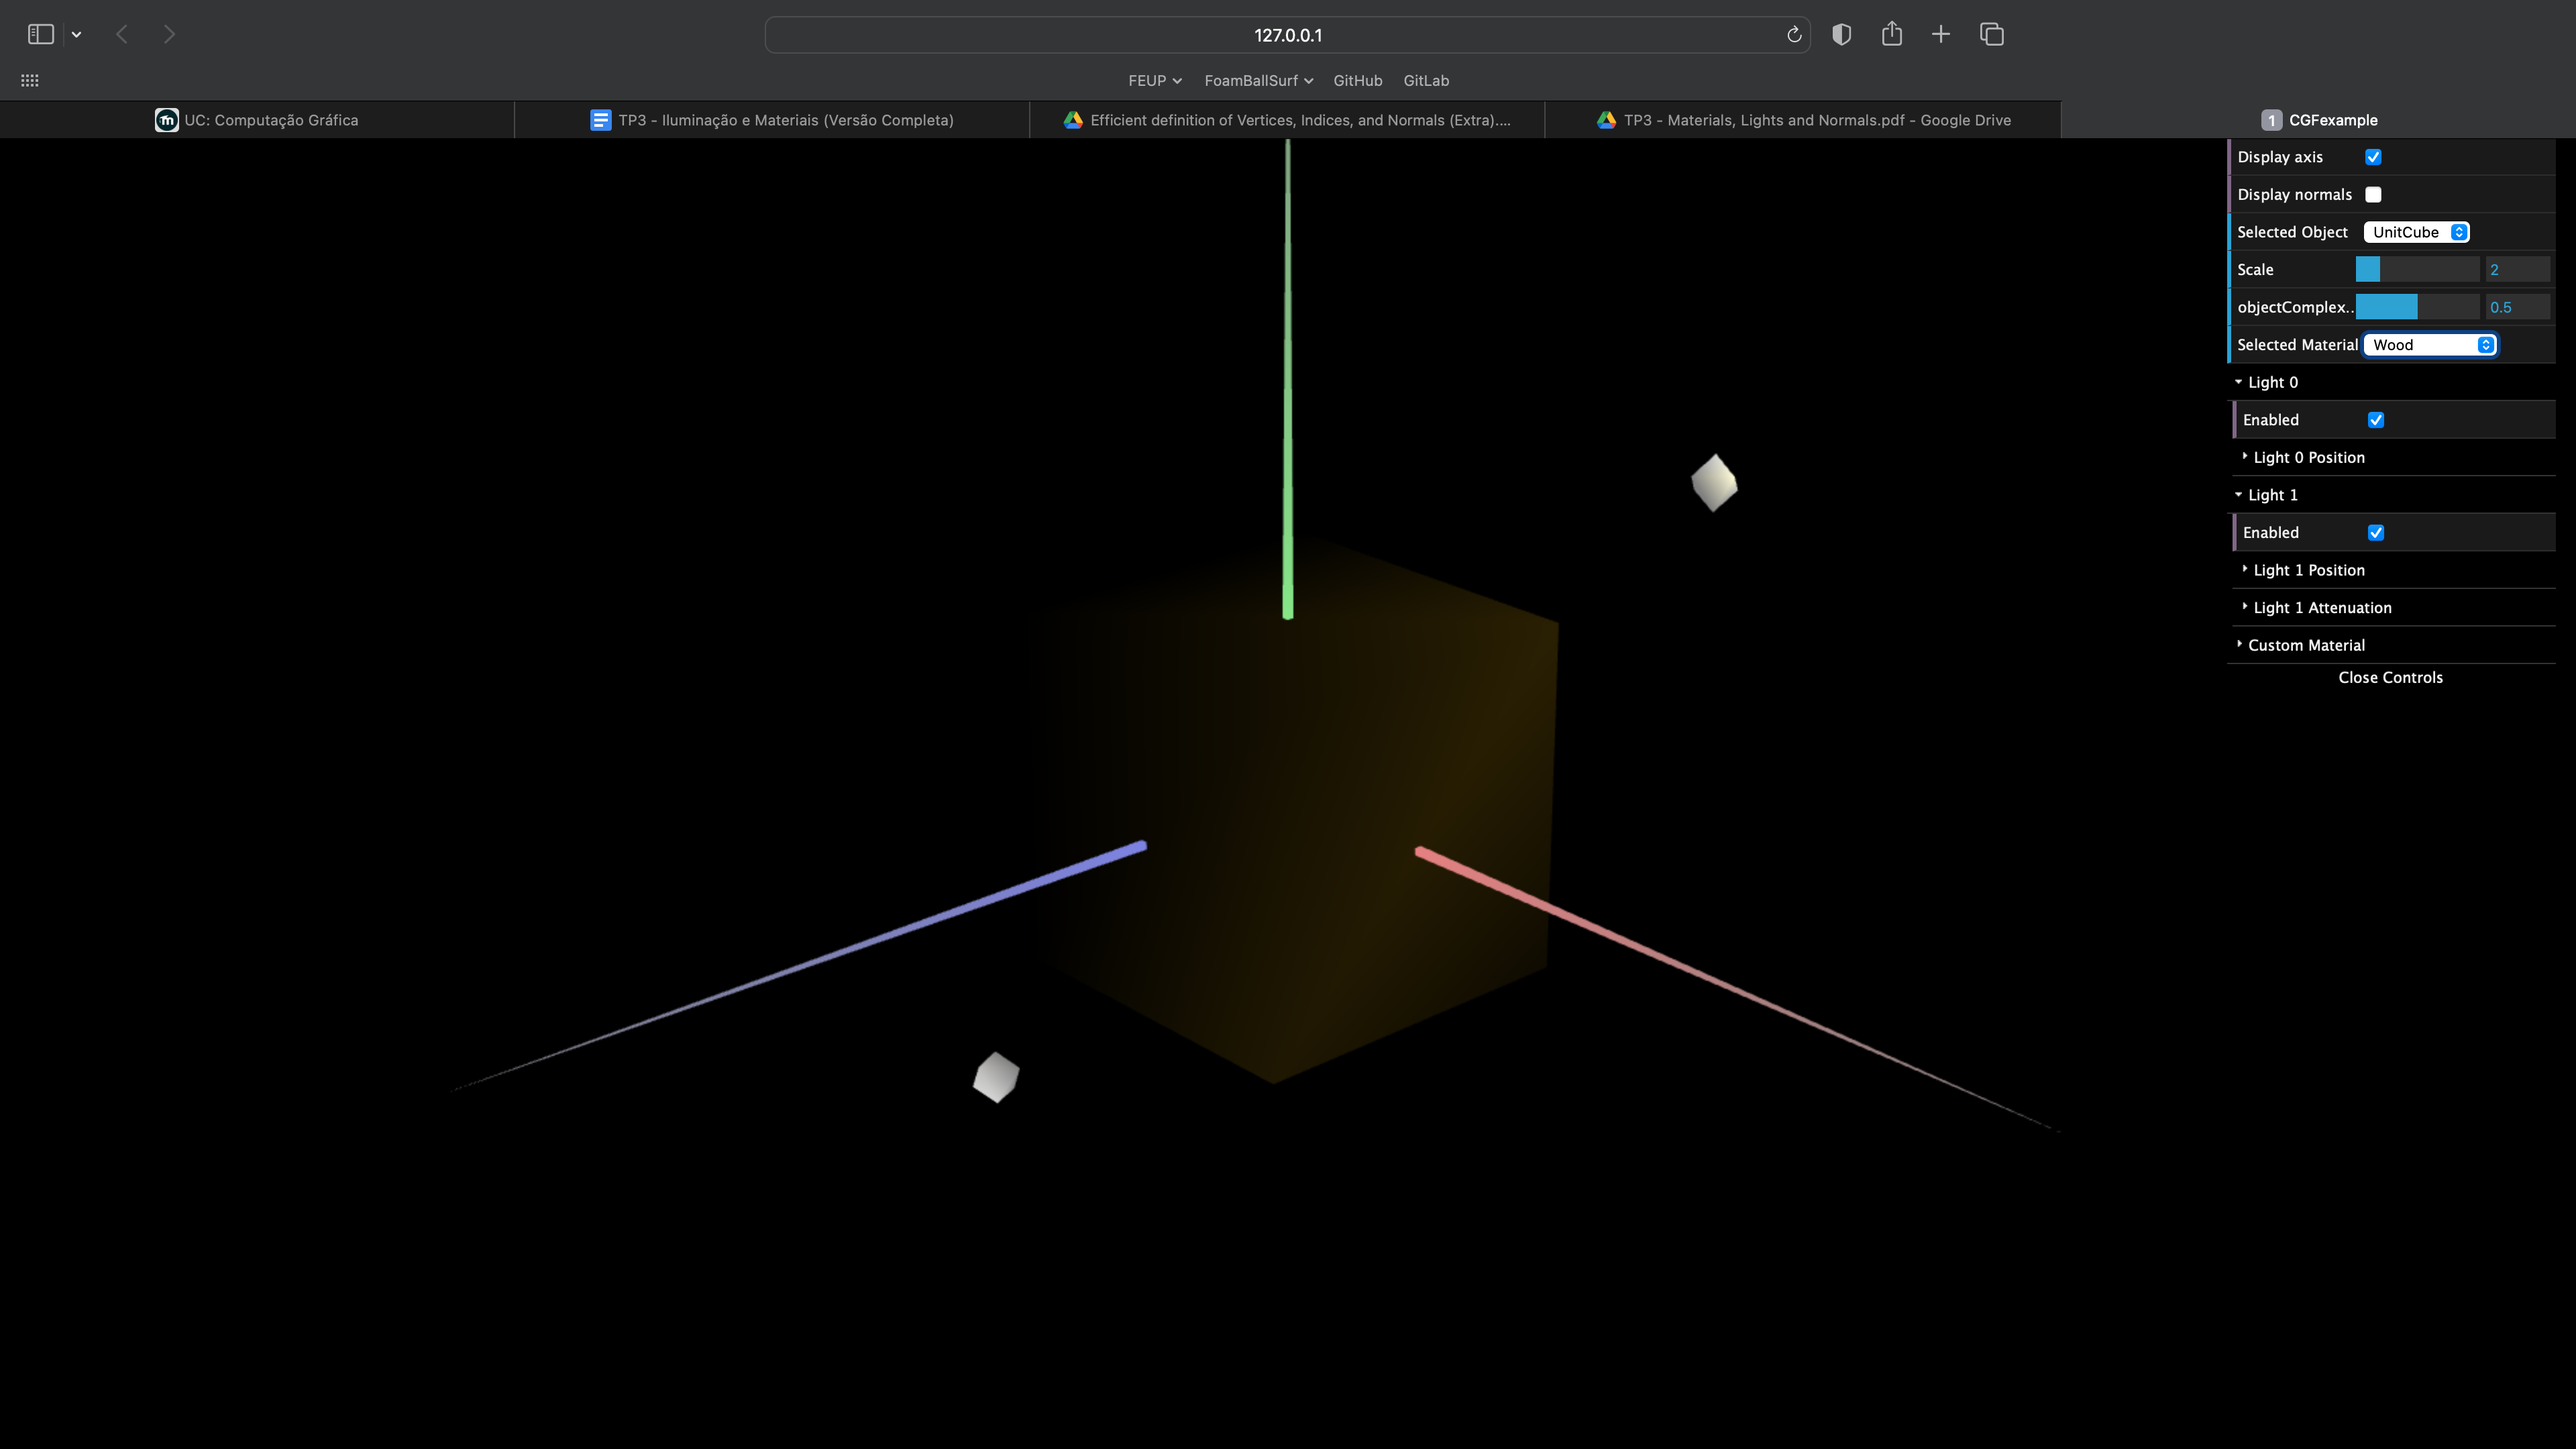
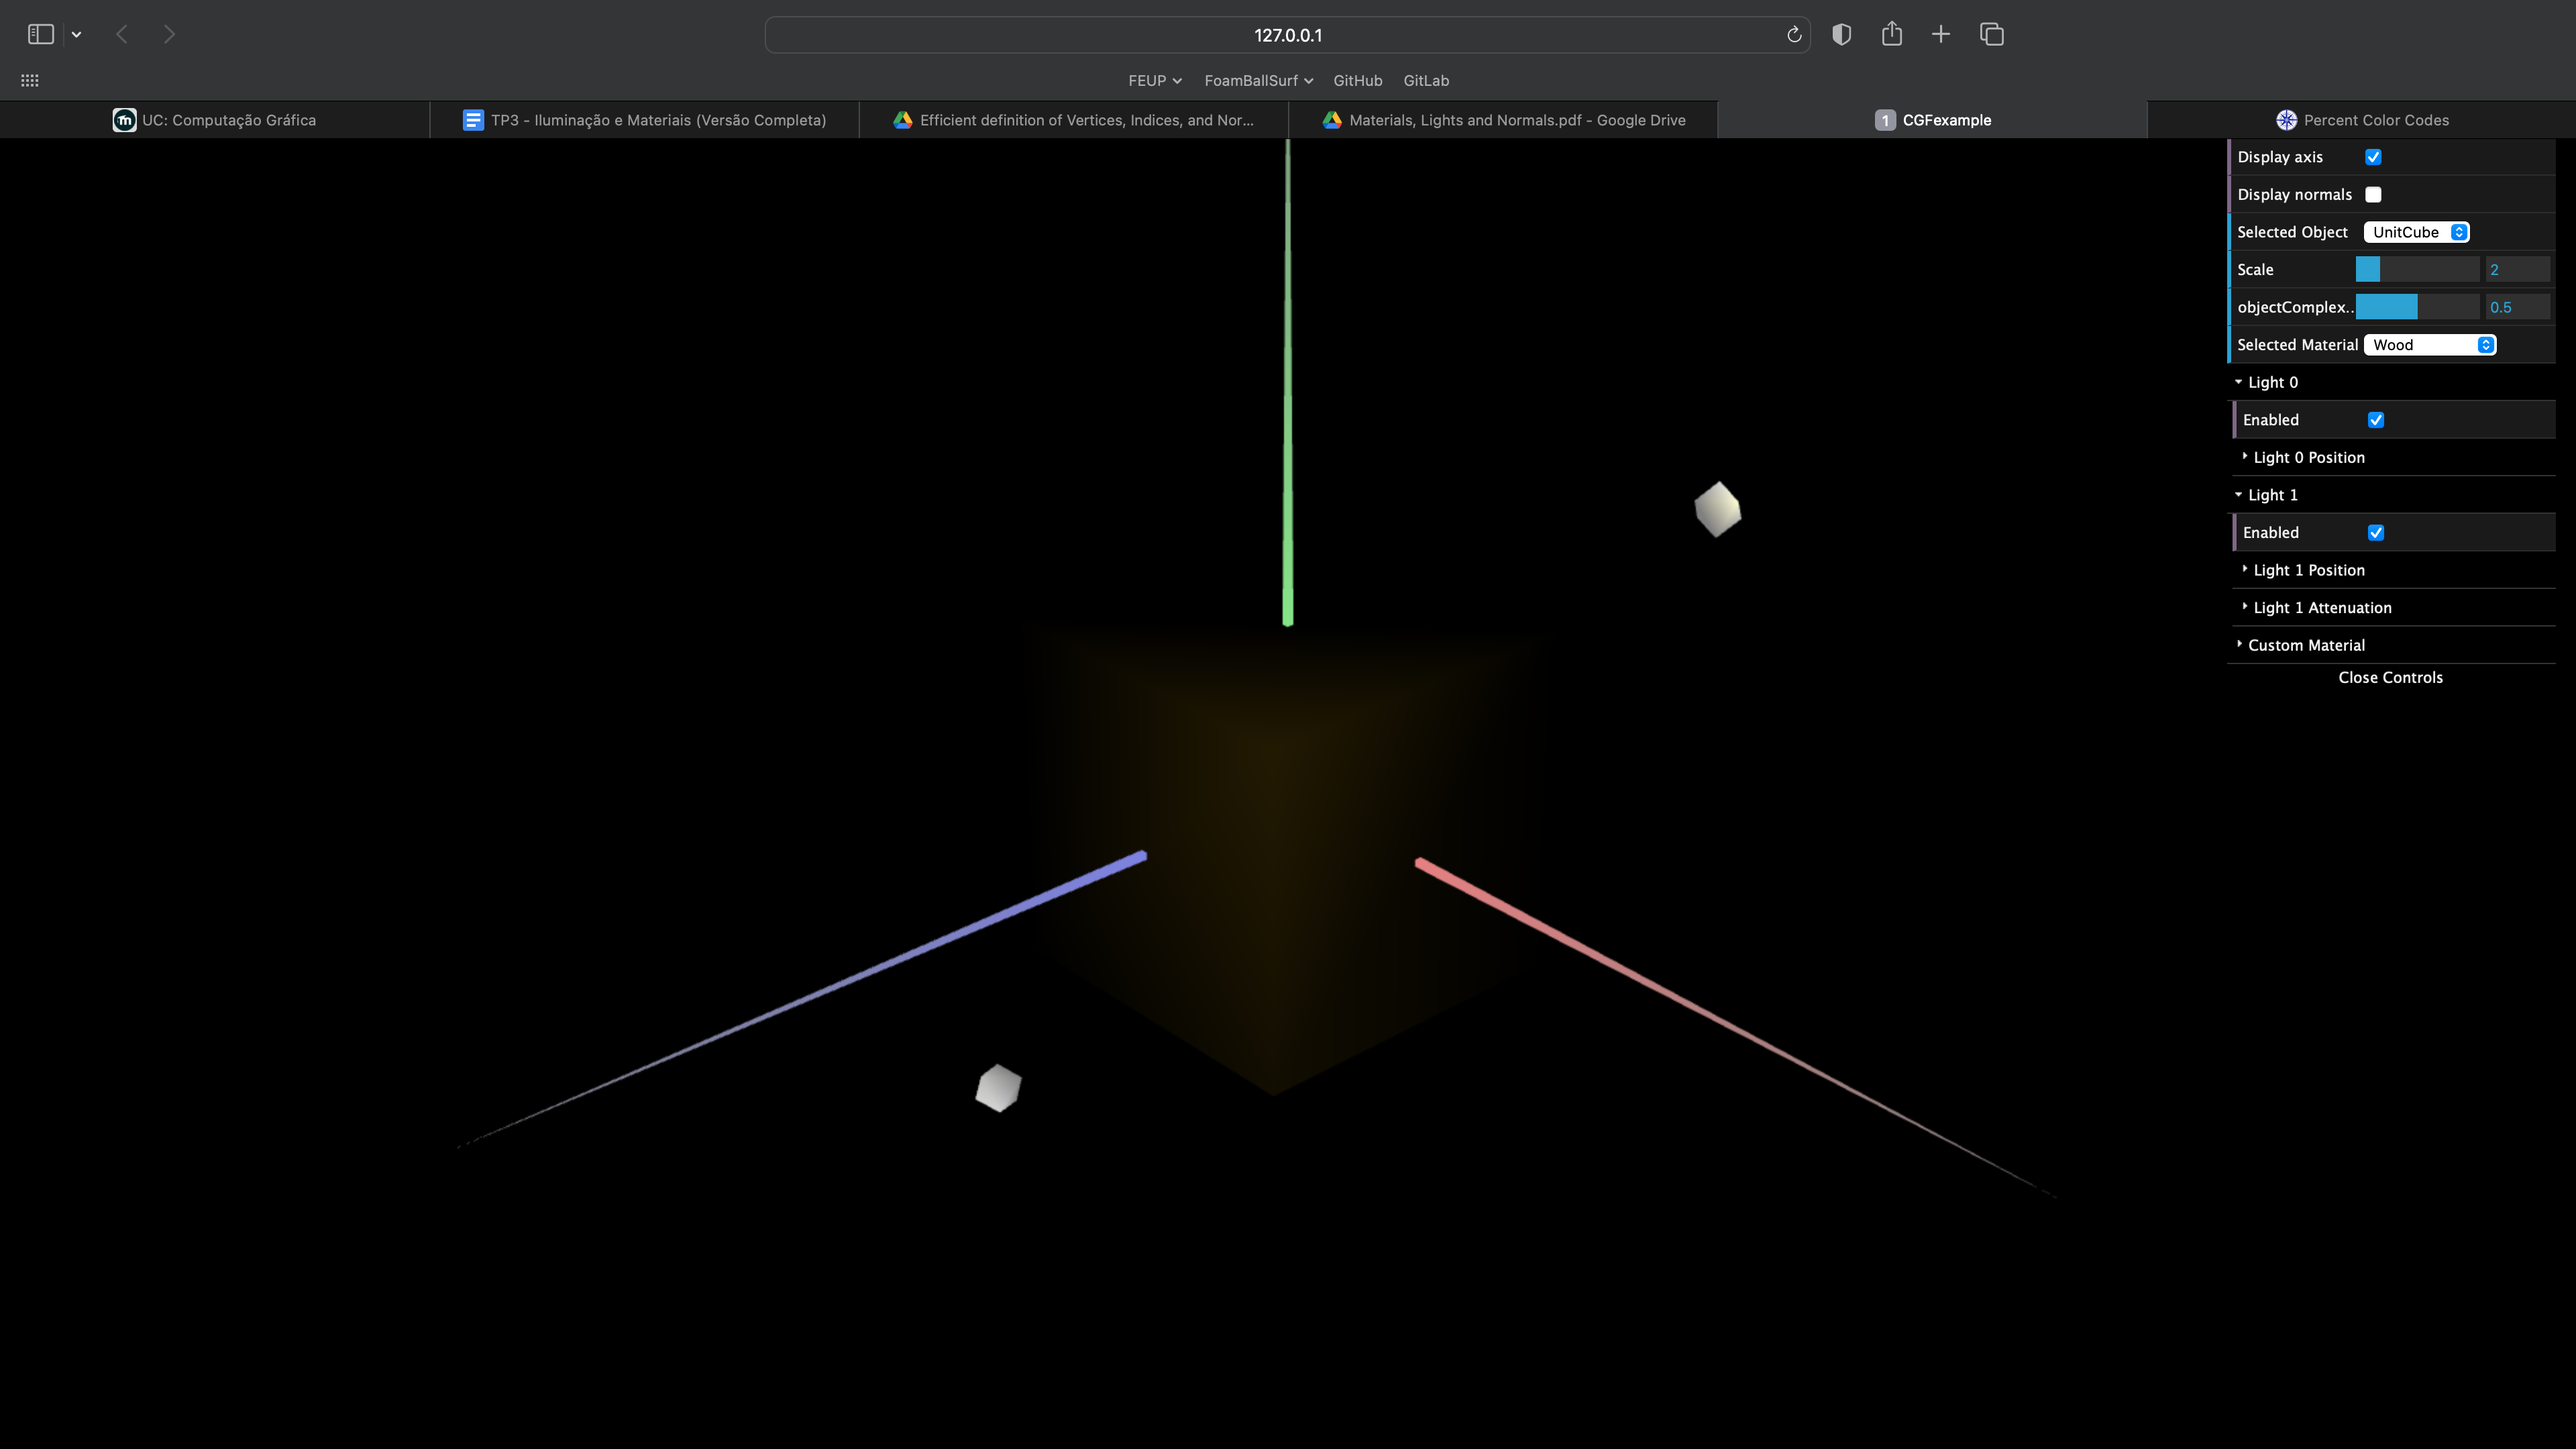
fixed step 3 cube normals

diff --git a/tp3/MyTangram.js b/tp3/MyTangram.js
@@ -1,4 +1,4 @@
-import { CGFobject } from "../lib/CGF.js";
+import { CGFappearance, CGFobject } from "../lib/CGF.js";
 
 
 
@@ -13,6 +13,7 @@ export class MyTangram extends CGFobject {
     this.diamond = diamond;
     this.triangleSmall = triangleSmall;
     this.triangleBig = triangleBig;
+    this.initMaterials();
   }
 
   enableNormalViz(){
@@ -51,6 +52,8 @@ export class MyTangram extends CGFobject {
 
     this.scene.translate(5,0,0);
 
+    this.triangleSmallMaterialPink.apply();
+
     this.triangleSmall.display();
 
     this.scene.popMatrix();
@@ -59,12 +62,17 @@ export class MyTangram extends CGFobject {
 
     this.scene.translate(2,0,0);
 
+
+    //this.triangleBigMaterialOrange.apply();
+
+
     this.triangleBig.display();
 
     this.scene.popMatrix();
     this.scene.pushMatrix();
     
-    
+    //this.triangleSmallMaterialPink.apply();
+
     this.scene.translate(0,- 1 - Math.sqrt(8),0);
 
     this.triangleSmall.display();
@@ -77,6 +85,7 @@ export class MyTangram extends CGFobject {
 
     this.scene.rotate(Math.PI / 4,0,0,1);
 
+    //this.triangleBigMaterialBlue.apply();
 
     this.triangleBig.display();
 
@@ -108,8 +117,56 @@ export class MyTangram extends CGFobject {
     this.scene.translate(-1,-2,0);
 
 
-
     this.triangleSmall.display();
+
+  }
+
+  initMaterials(){
+    this.triangleSmallMaterialPink = new CGFappearance(this.scene);
+    this.triangleSmallMaterialPink.setAmbient(0, 0, 0, 1.0);
+    this.triangleSmallMaterialPink.setDiffuse(0, 0, 0, 1.0);
+    this.triangleSmallMaterialPink.setSpecular(1, 0.75, 0.79, 0.7);//Done
+    this.triangleSmallMaterialPink.setShininess(10.0);
+
+    this.triangleSmallMaterialPurple = new CGFappearance(this.scene);
+    this.triangleSmallMaterialPurple.setAmbient(0, 0, 0, 1.0);
+    this.triangleSmallMaterialPurple.setDiffuse(0, 0, 0, 1.0);
+    this.triangleSmallMaterialPurple.setSpecular(0.53, 0.12, 0.47, 1.0);//Done
+    this.triangleSmallMaterialPurple.setShininess(10.0);
+
+    this.triangleSmallMaterialRed = new CGFappearance(this.scene);
+    this.triangleSmallMaterialRed.setAmbient(0, 0, 0, 1.0);
+    this.triangleSmallMaterialRed.setDiffuse(0, 0, 0, 1.0);//Done
+    this.triangleSmallMaterialRed.setSpecular(1, 0, 0, 1.0);
+    this.triangleSmallMaterialRed.setShininess(10.0);
+
+    this.diamondMaterialGreen = new CGFappearance(this.scene);
+    this.diamondMaterialGreen.setAmbient(0, 0, 0, 1.0);
+    this.diamondMaterialGreen.setDiffuse(0, 0, 0, 1.0);
+    this.diamondMaterialGreen.setSpecular(0, 1, 0.2, 1.0);//Done
+    this.diamondMaterialGreen.setShininess(10.0);
+
+    this.triangleBigMaterialBlue = new CGFappearance(this.scene);
+    this.triangleBigMaterialBlue.setAmbient(0, 0, 0, 1.0);
+    this.triangleBigMaterialBlue.setDiffuse(0, 0, 0, 1.0);
+    this.triangleBigMaterialBlue.setSpecular(0, 0.6, 0.88, 1.0);
+    this.triangleBigMaterialBlue.setShininess(10.0);//Done
+
+    this.triangleBigMaterialOrange = new CGFappearance(this.scene);
+    this.triangleBigMaterialOrange.setAmbient(0, 0, 0, 1.0);
+    this.triangleBigMaterialOrange.setDiffuse(0, 0, 0, 1.0); //Done
+    this.triangleBigMaterialOrange.setSpecular(1, 0.647, 1, 0.7);
+    this.triangleBigMaterialOrange.setShininess(10.0);
+
+    this.parallelogramMaterialYellow = new CGFappearance(this.scene);
+    this.parallelogramMaterialYellow.setAmbient(0, 0, 0, 1.0);
+    this.parallelogramMaterialYellow.setDiffuse(0, 0, 0, 1.0);
+    this.parallelogramMaterialYellow.setSpecular(0.98, 0.93, 0.36, 1.0);//Done
+    this.parallelogramMaterialYellow.setShininess(10.0);
+
+
+
+
 
   }
 }

diff --git a/tp3/MyUnitCube.js b/tp3/MyUnitCube.js
@@ -70,30 +70,30 @@ export class MyUnitCube extends CGFobject {
 		];
 
 		this.normals = [
-			0, 0, 1,
-			0, 0, 1,
-			0, 0, 1,
-			0, 0, 1,
-			0, 0, 1,
-			0, 0, 1,
-			0, 0, 1,
-			0, 0, 1,
-			1, 0, 0,
-			1, 0, 0,
-			1, 0, 0,
-			1, 0, 0,
-			1, 0, 0,
-			1, 0, 0,
-			1, 0, 0,
-			1, 0, 0,
-			0, 1, 0,
-			0, 1, 0,
-			0, 1, 0,
-			0, 1, 0,
-			0, 1, 0,
-			0, 1, 0,
-			0, 1, 0,
-			0, 1, 0,
+			0, 0, 1, //0
+			0, 0, 1, //1
+			0, 0, 1, //2
+			0, 0, 1, //3
+			0, 0, -1, //4
+			0, 0, -1, //5
+			0, 0, -1, //6
+			0, 0, -1, //7
+			-1, 0, 0, //0
+			1, 0, 0, //1
+			1, 0, 0, //2
+			-1, 0, 0, //3
+			-1, 0, 0, //4
+			1, 0, 0, //5
+			1, 0, 0, //6
+			-1, 0, 0, //7
+			0, -1, 0, //0
+			0, -1, 0, //1
+			0, 1, 0, //2
+			0, 1, 0, //3
+			0, -1, 0, //4
+			0, -1, 0, //5
+			0, 1, 0, //6
+			0, 1, 0, //7
 
 		]
 

diff --git a/tp3/MyScene.js b/tp3/MyScene.js
@@ -140,7 +140,7 @@ export class MyScene extends CGFscene {
         this.material4 = new CGFappearance(this);
         this.material4.setAmbient(0, 0, 0, 1.0);
         this.material4.setDiffuse(0, 0, 0, 1.0);
-        this.material4.setSpecular(0.44, 0.33, 0.23, 0.3);
+        this.material4.setSpecular(0.44, 0.33, 0.23, 0.2);
         this.material4.setShininess(10.0);
 
         // Custom material (can be changed in the interface)

diff --git a/tp3/README.md b/tp3/README.md
@@ -6,8 +6,4 @@
 
 - In exercise 1, we had some difficulties managing the different rotations and translations that some objects needed
 
-![Screenshot 1](screenshots/cg-t06g02-tp2-1.png)
-
-![Screenshot 2](screenshots/cg-t06g02-tp2-2.png)
-
-![Screenshot 3](screenshots/cg-t06g02-tp2-3.png)
+![Screenshot 1](screenshots/cg-t06g02-tp3-1.png)
